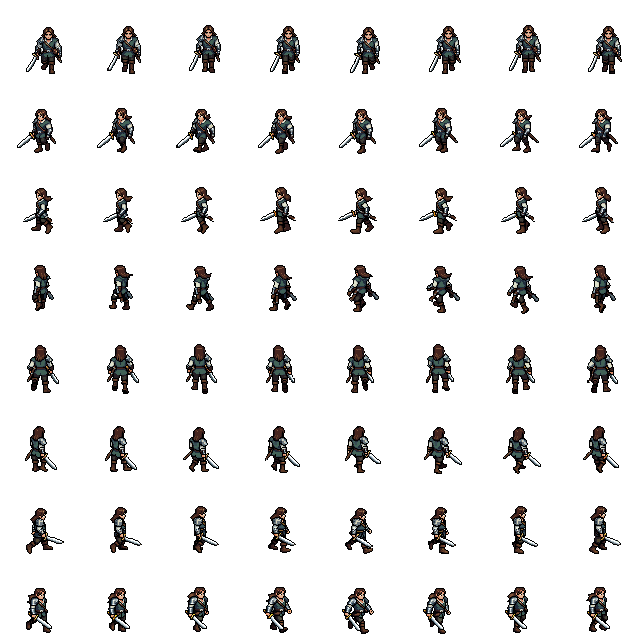
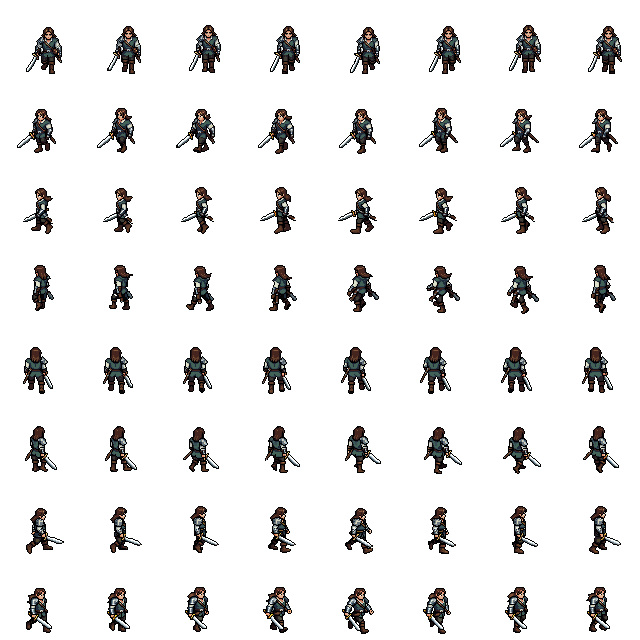
Silhouette shadows for all characters, new north walk, leg-stretch import option
- CastShadow: each character casts a flattened, tinted copy of its current frame
  (angle/length/opacity in CastShadow.cs), plus a small contact shadow
- Warrior: updated north walk animation
- import_character.py: --leg-stretch option (off by default)

diff --git a/Tools/import_character.py b/Tools/import_character.py
@@ -41,6 +41,8 @@ DIR_VEC = {d: (math.cos(math.radians(a)), math.sin(math.radians(a)))
            for d, a in zip(DIRS, [270, 225, 180, 135, 90, 45, 0, 315])}
 
 FRAME = 80          # output frame size (room for wide poses like slides)
+LEG_STRETCH = 0.0   # set by --leg-stretch: make legs this much longer (0.12 = 12%)
+STRETCH_KINDS = ("idle", "walk", "attack")  # not dodge: in a crouch/slide the "legs" rows contain the torso
 PIVOT = (40, 6)     # feet position in the output frame, from bottom-left
 
 
@@ -128,6 +130,20 @@ def place(img, anchor_x, bottom, dx=0, dy=0):
             if 0 <= tx < FRAME and img[y, x, 3] > 0:
                 frame[ty, tx] = img[y, x]
     return frame
+
+
+def stretch_legs(img, hip_y, bottom):
+    """Stretch the rows from the hips down by LEG_STRETCH (nearest-neighbour, so pixels stay crisp).
+    Returns the taller image and the new index of the bottom row."""
+    if LEG_STRETCH <= 0 or hip_y >= img.shape[0]:
+        return img, bottom
+    hip_y = max(0, int(hip_y))
+    legs = img[hip_y:]
+    n = legs.shape[0]
+    new_n = int(round(n * (1 + LEG_STRETCH)))
+    idx = np.minimum((np.arange(new_n) * n / new_n).astype(int), n - 1)
+    out = np.concatenate([img[:hip_y], legs[idx]], axis=0)
+    return out, bottom + (new_n - n)
 
 
 def shift_region(img, y0, y1, dx, dy, x_mask=None):
@@ -222,6 +238,17 @@ def build(src, name, portrait_name, anim_files=None, fps_override=None):
         ax, _ = feet_anchor(img)
         waist = top + int((bottom - top) * 0.55)
         info[d] = (ax, top, waist, bottom)
+    # hips sit at ~55% of the pose height; used to find the legs in every animation frame
+    leg_len = {d: info[d][3] - info[d][2] for d in DIRS}
+
+    def placed(img, d, bottom, stretch, dx=0, dy=0, hip=None):
+        """place() with the legs stretched first; hip defaults to the pose's leg length above `bottom`."""
+        ax = info[d][0]
+        if stretch and LEG_STRETCH > 0:
+            if hip is None:
+                hip = bottom - leg_len[d]
+            img, bottom = stretch_legs(img, hip, bottom)
+        return place(img, ax, bottom, dx, dy)
 
     def from_gifs(kind):
         """Align every frame of a direction with one shared anchor so the feet don't jitter."""
@@ -233,7 +260,14 @@ def build(src, name, portrait_name, anim_files=None, fps_override=None):
             for fr in frames:
                 union[fr[:, :, 3] > 0] = fr[fr[:, :, 3] > 0]
             ax, bottom = feet_anchor(union)
-            res[d] = [place(fr, ax, bottom) for fr in frames]
+            if kind in STRETCH_KINDS and LEG_STRETCH > 0:
+                hip = bottom - leg_len[d]
+                res[d] = []
+                for fr in frames:
+                    tall, new_bottom = stretch_legs(fr, hip, bottom)
+                    res[d].append(place(tall, ax, new_bottom))
+            else:
+                res[d] = [place(fr, ax, bottom) for fr in frames]
         return res
 
     def gif_fps(kind, default):
@@ -245,7 +279,7 @@ def build(src, name, portrait_name, anim_files=None, fps_override=None):
         res = {}
         for d in DIRS:
             ax, _, _, bottom = info[d]
-            res[d] = [place(rgba(p), ax, bottom) for p in provided[kind][d]]
+            res[d] = [placed(rgba(p), d, bottom, kind in STRETCH_KINDS) for p in provided[kind][d]]
         return res
 
     # idle
@@ -257,7 +291,7 @@ def build(src, name, portrait_name, anim_files=None, fps_override=None):
         idle = {}
         for d, img in poses.items():
             ax, top, waist, bottom = info[d]
-            idle[d] = [place(breathe(img, top, waist, a), ax, bottom) for a in (0, 0, 1, 1)]
+            idle[d] = [placed(breathe(img, top, waist, a), d, bottom, True, hip=waist) for a in (0, 0, 1, 1)]
         write("idle", idle, 4, True)
 
     # walk
@@ -269,7 +303,7 @@ def build(src, name, portrait_name, anim_files=None, fps_override=None):
         walk = {}
         for d, img in poses.items():
             ax, top, waist, bottom = info[d]
-            walk[d] = [place(walk_frame(img, d, f / 8 * 2 * math.pi, top, waist, bottom, ax), ax, bottom)
+            walk[d] = [placed(walk_frame(img, d, f / 8 * 2 * math.pi, top, waist, bottom, ax), d, bottom, True, hip=waist)
                        for f in range(8)]
         write("walk", walk, 10, True)
 
@@ -286,7 +320,8 @@ def build(src, name, portrait_name, anim_files=None, fps_override=None):
         for d, img in poses.items():
             ax, top, waist, bottom = info[d]
             vx, vy = DIR_VEC[d]
-            attack[d] = [place(img, ax, bottom, dx=int(round(vx * k)), dy=int(round(vy * k * 0.5))) for k in lunge]
+            attack[d] = [placed(img, d, bottom, True, dx=int(round(vx * k)), dy=int(round(vy * k * 0.5)), hip=waist)
+                         for k in lunge]
         write("attack", attack, 16, False, hit=3)
 
     # any other animation passed with --anim (e.g. dodge, hurt, death): one-shot by default
@@ -349,7 +384,10 @@ if __name__ == "__main__":
     ap.add_argument("--anim", action="append", default=[], metavar="KIND=PATTERN",
                     help='e.g. walk="~/Downloads/hero_walking_{dir}.gif" (idle, walk, attack, dodge, or any name)')
     ap.add_argument("--fps", action="append", default=[], metavar="KIND=FPS", help="e.g. walk=10")
+    ap.add_argument("--leg-stretch", type=float, default=0.0,
+                    help="make the legs longer in idle/walk/attack, e.g. 0.12 = 12%% (originals are not changed)")
     a = ap.parse_args()
+    LEG_STRETCH = a.leg_stretch
     anims = dict(x.split("=", 1) for x in a.anim)
     fps = {k: float(v) for k, v in (x.split("=", 1) for x in a.fps)}
     print(f"Importing {a.source} -> Art/Characters/{a.name}/")

diff --git a/Assets/Scripts/Art/CastShadow.cs b/Assets/Scripts/Art/CastShadow.cs
@@ -1,0 +1,35 @@
+using UnityEngine;
+
+// Silhouette shadow: copies the character's current animation frame every frame, tints it dark,
+// flattens it and lays it on the ground pointing away from the light (art spec: light from the
+// upper left, toward the viewer, so shadows fall up and to the right).
+public class CastShadow : MonoBehaviour
+{
+    // Tweak these to change every character's shadow.
+    const float Angle = -55f;       // direction the shadow points (0 = straight up the screen, negative = to the right)
+    const float Flatten = 0.45f;    // shadow length relative to the character's height
+    const float Opacity = 0.3f;
+
+    SpriteRenderer source, sr;
+
+    public static void Attach(Transform actorRoot, SpriteRenderer source)
+    {
+        // rotate on the parent, squash on the child: squash first, then rotate (no shearing)
+        var pivot = Iso.Child(actorRoot, "CastShadow");
+        pivot.transform.localRotation = Quaternion.Euler(0, 0, Angle);
+        var vis = Iso.Child(pivot.transform, "Sprite");
+        vis.transform.localScale = new Vector3(1f, Flatten, 1f);
+
+        var shadow = vis.AddComponent<CastShadow>();
+        shadow.source = source;
+        shadow.sr = Iso.AddSprite(vis, null, new Color(0, 0, 0, Opacity), Iso.GroundDecalOrder);
+    }
+
+    void LateUpdate()
+    {
+        sr.sprite = source.sprite;
+        sr.flipX = source.flipX;
+        // follow the character's transparency (e.g. enemies fading out when they die)
+        sr.color = new Color(0f, 0f, 0f, Opacity * source.color.a);
+    }
+}

diff --git a/Assets/Scripts/Actors/ActorBuilder.cs b/Assets/Scripts/Actors/ActorBuilder.cs
@@ -11,14 +11,16 @@ public static class ActorBuilder
         go.transform.SetParent(parent);
         go.transform.position = pos;
 
-        var shadow = Iso.Child(go.transform, "Shadow");
-        shadow.transform.localScale = Vector3.one * Mathf.Max(0.6f, footRadius * 5f);
-        Iso.AddSprite(shadow, SpriteFactory.Shadow, Color.white, Iso.GroundDecalOrder);
+        // small, faint contact shadow right under the feet, plus a silhouette shadow cast on the ground
+        var contact = Iso.Child(go.transform, "ContactShadow");
+        contact.transform.localScale = Vector3.one * Mathf.Max(0.4f, footRadius * 3f);
+        Iso.AddSprite(contact, SpriteFactory.Shadow, new Color(1f, 1f, 1f, 0.6f), Iso.GroundDecalOrder);
 
         var body = Iso.Child(go.transform, "Body");
         var sr = Iso.AddSprite(body, null, Color.white);
         anim = body.AddComponent<CharacterAnimator>();
         anim.Init(ArtLibrary.Character(sheet), sr);
+        CastShadow.Attach(go.transform, sr);
 
         var rb = go.AddComponent<Rigidbody2D>();
         rb.gravityScale = 0f;
